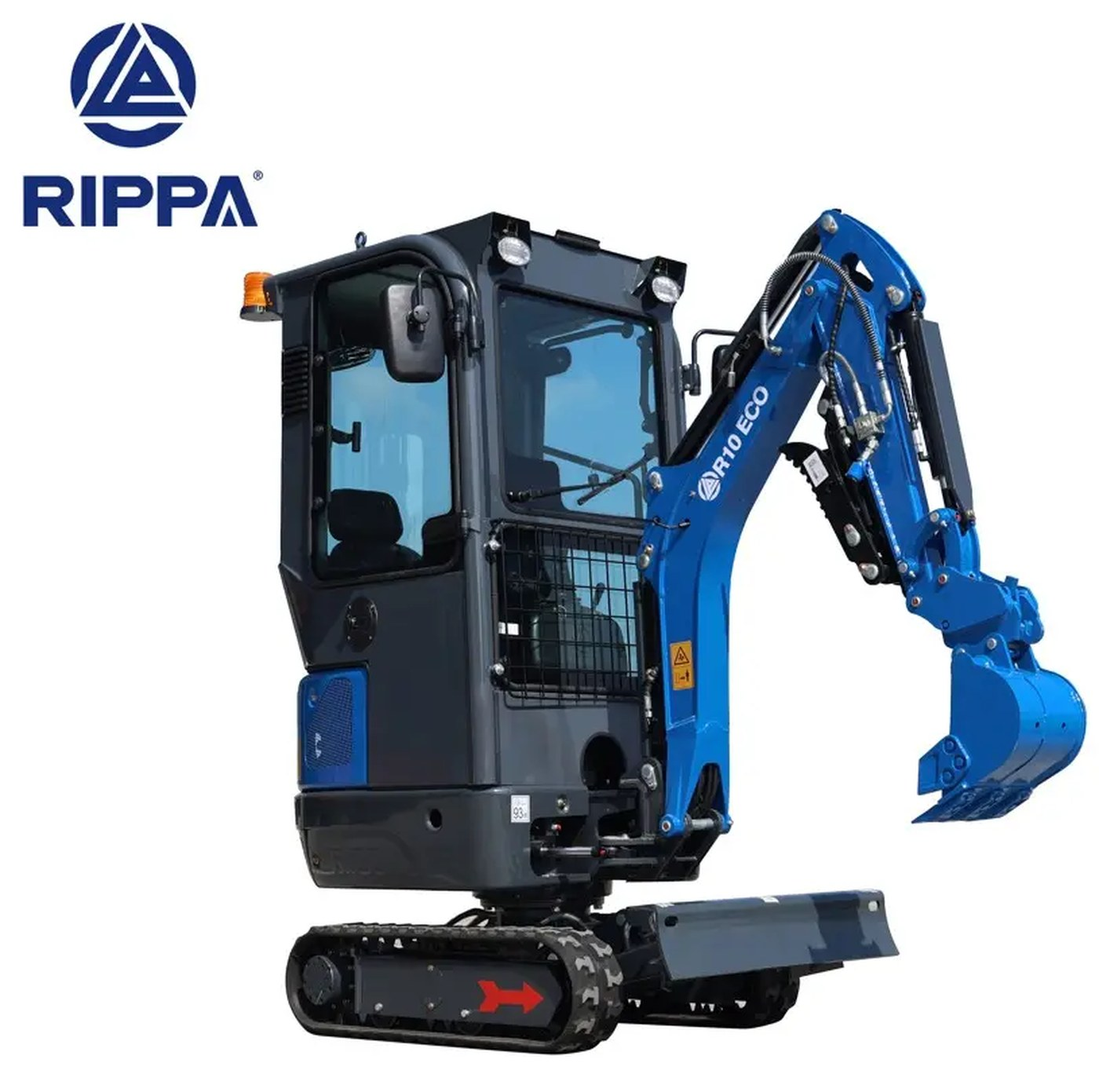
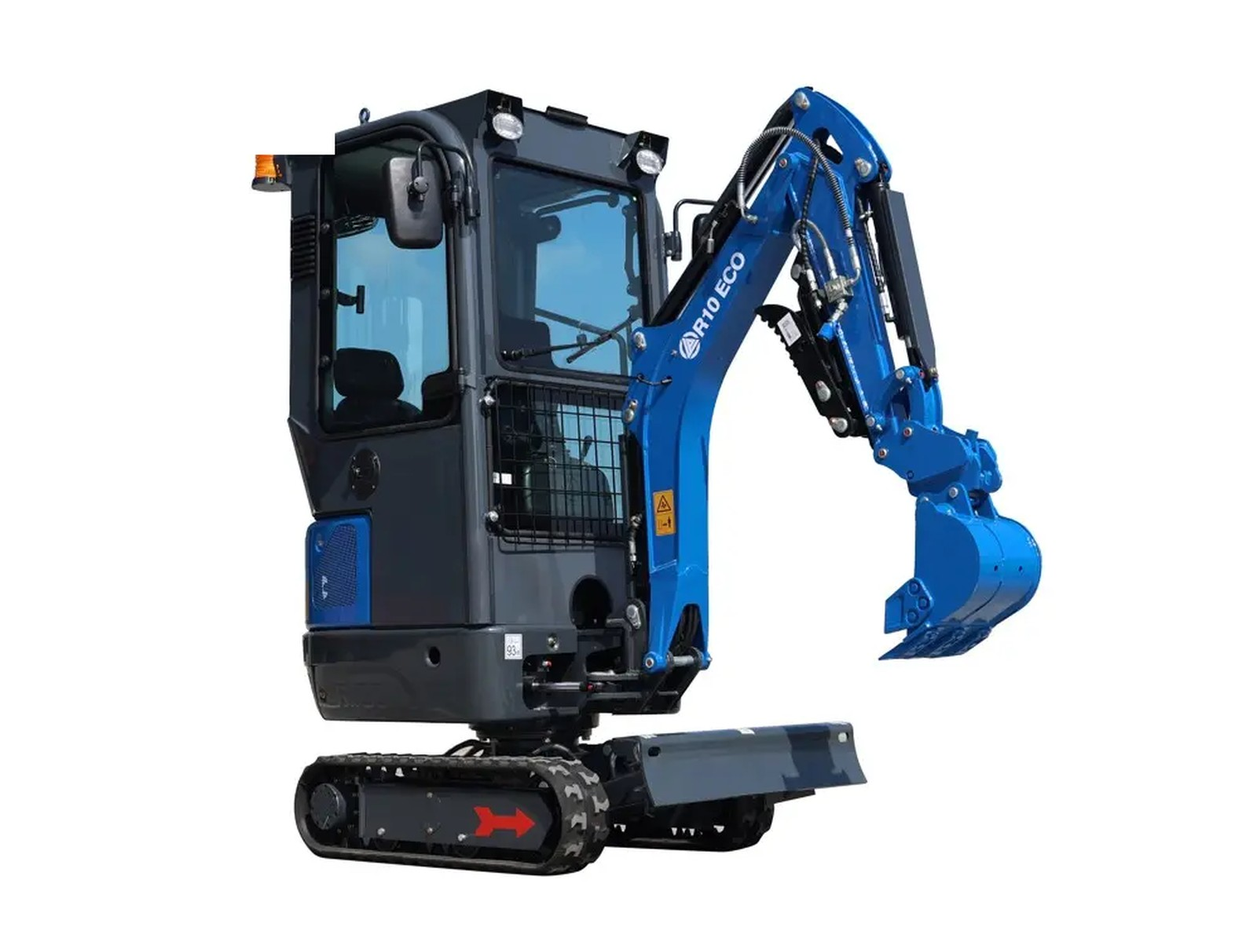
Design pass: chamfered rugged chips/buttons, accent bars, new hero/CTA backgrounds; R10, R13, R15 render galleries and feature images; RD06 render recrop; placeholder-image filter for attachment imports; header overflow fix; phone placeholder 111-111-1111

diff --git a/src/data/lineup.ts b/src/data/lineup.ts
@@ -91,13 +91,13 @@ export const lineup: LineupModel[] = [
       { eyebrow: "Ultra compact", title: "Retractable tracks 900 – 1,200 mm", text: "A single lever narrows the gauge to 900 mm to pass a gate, then widens to 1,200 mm for digging stability.", image: "r10-eco-feat-tracks" },
       { eyebrow: "Wide range", title: "Boom swing 74° left / 47° right", text: "Dig along fences, foundations and walls without repositioning.", image: "r10-eco-feat-swing" },
       { eyebrow: "Design detail", title: "Reinforced quick-fold dozer blade", text: "High-strength steel, ribbed, greased pivots and a pull-pin fold that matches blade to track width.", image: "r10-eco-feat-blade" },
-      { eyebrow: "Work ready", title: "Hydraulic thumb, quick coupler and four-way lines", text: "Standard hydraulic thumb for rocks, logs and irregular loads, tool-free bucket changes, and four high-pressure auxiliary lines for breakers and augers.", image: "r10-eco-feat-action" },
-      { eyebrow: "Safety", title: "Four-post canopy with safety net and lights", text: "Front mesh guard, plastic roof, front spotlight and warning beacon. Rearview mirror under the roof.", image: "r10-eco-feat-canopy" },
+      { eyebrow: "Work ready", title: "Hydraulic thumb, quick coupler and four-way lines", text: "Standard hydraulic thumb for rocks, logs and irregular loads, tool-free bucket changes, and four high-pressure auxiliary lines for breakers and augers.", image: "r10-eco-feat-thumb" },
+      { eyebrow: "Safety", title: "Four-post canopy with safety net and lights", text: "Front mesh guard, plastic roof, front spotlight and warning beacon. Rearview mirror under the roof.", image: "r10-eco-feat-canopy-net" },
     ],
     standardEquipment: ["Hydraulic thumb", "Mechanical quick coupler", "Four-way auxiliary hydraulic lines", "Retractable undercarriage 900–1,200 mm", "Quick-fold dozer blade", "Four-post canopy with front safety net and plastic roof (canopy version)", "Foot pedal for boom swing", "LED spotlight and warning light", "Rearview mirror", "Lifting holes", "Dashboard with hour meter", "Counterweight"],
     applications: ["Backyard projects", "Fence installation", "Garden beds and drainage", "Light trenching", "Rental fleets"],
     faqs: excFaqs("R10 ECO", "912 mm (35.9 in)", "1,142 kg (2,518 lb)", "It passes a standard 36-inch gate with the tracks retracted."),
-    images: [{ key: "r10-eco-render", alt: "RIPPA R10 ECO mini excavator" }, { key: "r10-eco-cab", alt: "RIPPA R10 ECO enclosed cab, Kubota diesel" }, { key: "r10-eco-canopy-gas", alt: "RIPPA R10 ECO open canopy, Briggs & Stratton gas engine" }, { key: "r10-eco-cab-gas", alt: "RIPPA R10 ECO enclosed cab, gas engine" }, { key: "r10-eco-cover", alt: "RIPPA R10 ECO on site" }, { key: "r10-eco-action", alt: "RIPPA R10 ECO digging" }, { key: "r10-eco-feat-jobsite", alt: "RIPPA R10 ECO in a backyard" }],
+    images: [{ key: "r10-eco-render", alt: "RIPPA R10 ECO mini excavator with open canopy" }, { key: "r10-eco-cab", alt: "RIPPA R10 ECO with enclosed cab" }, { key: "r10-eco-side", alt: "RIPPA R10 ECO open canopy, right side view" }, { key: "r10-eco-front-right", alt: "RIPPA R10 ECO from the front right" }, { key: "r10-eco-front", alt: "RIPPA R10 ECO front view with dozer blade" }, { key: "r10-eco-rear", alt: "RIPPA R10 ECO rear view" }, { key: "r10-eco-coupler", alt: "RIPPA R10 ECO quick coupler and bucket" }],
     brochure: "RIPPA-R10-ECO-Spec-Sheet.pdf", targetUsers: "Homeowners for backyard projects", noiseLevel: "Ultra-quiet", indoorUse: true,
   },
   // ============================================================ R13 PRO
@@ -119,14 +119,15 @@ export const lineup: LineupModel[] = [
     features: [
       { eyebrow: "Compact design", title: "849 mm wide with 750 – 990 mm retractable tracks", text: "Passes backyard alleys and gates, then widens for stability. Control-lever operated.", image: "r13-pro-feat-tracks" },
       { eyebrow: "Design detail", title: "Retractable dozer blade", text: "Blade width follows the track gauge by moving a pin. Levelling yards and small sites without a second machine.", image: "r13-pro-feat-blade" },
-      { eyebrow: "Work ready", title: "Hydraulic thumb & quick coupler standard", text: "Grab rocks, roots and logs, and change buckets in seconds.", image: "r13-pro-feat-thumb" },
-      { eyebrow: "Safety", title: "Front ROPS bar and safety net canopy", text: "Rollover protective structure that folds for transport, front mesh guard, roof spotlight, warning light and rearview mirror.", image: "r13-pro-feat-rops" },
+      { eyebrow: "Work ready", title: "Hydraulic thumb & quick coupler standard", text: "Grab rocks, roots and logs, and change buckets in seconds.", image: "r13-pro-feat-thumb-render" },
+      { eyebrow: "Safety", title: "Front ROPS bar and safety net canopy", text: "Rollover protective structure that folds for transport, front mesh guard, roof spotlight, warning light and rearview mirror.", image: "r13-pro-feat-canopy-render" },
       { eyebrow: "Serviceability", title: "Full-opening bonnet and lifting points", text: "Rear-opening hood for daily checks, air filter, nickel-plated grease fittings with welded guards and two lower-frame lifting points.", image: "r13-pro-feat-hood" },
+      { eyebrow: "Operator comfort", title: "Hydraulic pilot joystick controls", text: "Pilot joysticks replace mechanical levers, so fine grading and long days take less effort. Function switches sit on the joystick heads within thumb reach.", image: "r13-pro-feat-controls" },
     ],
     standardEquipment: ["Hydraulic thumb", "Quick coupler", "Four-way auxiliary hydraulic lines", "Retractable undercarriage 750–990 mm", "Retractable dozer blade", "Front ROPS bar (foldable)", "Canopy with front safety net", "Roof spotlight, warning light and rearview mirror", "Sound-insulated seat cover", "Nickel-plated grease fittings", "Lower-frame lifting points", "Full-opening bonnet"],
     applications: ["Landscaping", "Trenching", "Utility work", "Backyard access jobs", "Maintenance contractors"],
     faqs: excFaqs("R13 PRO", "849 mm (33.4 in)", "1,323 kg (2,917 lb)", "It passes a 36-inch gate with room to spare.").filter((f) => !f.question.startsWith("Open canopy")).concat([{ question: "Is there an enclosed cab version?", answer: "No. The R13 PRO is canopy-only. For an enclosed cab in this size class, look at the R15 ECO or R18 PRO." }]),
-    images: [{ key: "r13-pro-render", alt: "RIPPA R13 PRO mini excavator" }, { key: "r13-pro-canopy", alt: "RIPPA R13 PRO open canopy with Kubota D722" }, { key: "r13-pro-cover", alt: "RIPPA R13 PRO on site" }, { key: "r13-pro-action", alt: "RIPPA R13 PRO digging" }, { key: "r13-pro-feat-jobsite", alt: "RIPPA R13 PRO trenching beside a house" }],
+    images: [{ key: "r13-pro-render", alt: "RIPPA R13 PRO mini excavator with hydraulic thumb and open canopy" }, { key: "r13-pro-side", alt: "RIPPA R13 PRO side profile with boom extended" }, { key: "r13-pro-front-right", alt: "RIPPA R13 PRO from the front right" }, { key: "r13-pro-rear-left", alt: "RIPPA R13 PRO rear three-quarter view" }, { key: "r13-pro-front", alt: "RIPPA R13 PRO front view with dozer blade" }, { key: "r13-pro-rear", alt: "RIPPA R13 PRO rear view" }, { key: "r13-pro-controls", alt: "RIPPA R13 PRO pilot joystick controls" }],
     brochure: "RIPPA-R13-PRO-Spec-Sheet.pdf", targetUsers: "Budget-conscious buyers needing stronger lift in a narrow machine", noiseLevel: "Ultra-quiet", indoorUse: false,
   },
   // ============================================================ R15 ECO
@@ -148,14 +149,14 @@ export const lineup: LineupModel[] = [
     features: [
       { eyebrow: "Ultra compact", title: "Retractable tracks 900 – 1,200 mm", text: "Single-lever hydraulic gauge adjustment. Narrow for doorways, wide for digging.", image: "r15-eco-feat-tracks" },
       { eyebrow: "Design detail", title: "Reinforced quick-fold dozer blade", text: "High-strength ribbed blade with greased joints; fold pin matches it to the track width.", image: "r15-eco-feat-blade" },
-      { eyebrow: "Control & comfort", title: "Dual pilot foot valves and high/low travel", text: "Two dual and two single pilot foot valves for smoother swing and auxiliary control, plus switchable travel speeds.", image: "r15-eco-feat-action" },
-      { eyebrow: "Work ready", title: "Four-way crushing pipeline", text: "Four high-pressure auxiliary lines run breakers, augers and thumbs.", image: "r15-eco-feat-swing" },
-      { eyebrow: "Safety", title: "Enhanced safety canopy", text: "Four-post canopy with front safety net, front headlight, warning light and sound-insulated seat cover. Or choose the enclosed cab.", image: "r15-eco-feat-canopy" },
+      { eyebrow: "Control & comfort", title: "Dual pilot foot valves and high/low travel", text: "Two dual and two single pilot foot valves for smoother swing and auxiliary control, plus switchable travel speeds.", image: "r15-eco-feat-controls" },
+      { eyebrow: "Work ready", title: "Four-way crushing pipeline", text: "Four high-pressure auxiliary lines run breakers, augers and thumbs.", image: "r15-eco-feat-aux-lines" },
+      { eyebrow: "Safety", title: "Enhanced safety canopy", text: "Four-post canopy with front safety net, front headlight, warning light and sound-insulated seat cover. Or choose the enclosed cab.", image: "r15-eco-feat-canopy-lights" },
     ],
     standardEquipment: ["Four-way auxiliary hydraulic lines", "Quick coupler", "Retractable undercarriage 900–1,200 mm", "Quick-fold dozer blade", "Dual pilot foot valves", "High / low travel speed", "Four-post canopy with front safety net (canopy version)", "Front headlight and warning light", "Sound-insulated seat cover", "Lifting holes"],
     applications: ["Driveway repair", "Drainage trenching", "Stump removal", "Tree planting", "Fence installation", "Small foundations", "Farm work"],
     faqs: excFaqs("R15 ECO", "983 mm (38.7 in)", "1,532 kg (3,377 lb)", "It passes most double gates; retract the tracks for a standard 36-inch gate (900 mm track gauge)."),
-    images: [{ key: "r15-eco-render", alt: "RIPPA R15 ECO mini excavator" }, { key: "r15-eco-cab", alt: "RIPPA R15 ECO enclosed cab" }, { key: "r15-eco-canopy", alt: "RIPPA R15 ECO open canopy" }, { key: "r15-eco-cover", alt: "RIPPA R15 ECO on site" }, { key: "r15-eco-action", alt: "RIPPA R15 ECO with breaker" }, { key: "r15-eco-feat-jobsite", alt: "RIPPA R15 ECO digging beside a house" }],
+    images: [{ key: "r15-eco-render", alt: "RIPPA R15 ECO mini excavator with open canopy" }, { key: "r15-eco-cab", alt: "RIPPA R15 ECO with enclosed cab" }, { key: "r15-eco-side", alt: "RIPPA R15 ECO side profile with boom extended" }, { key: "r15-eco-front-left", alt: "RIPPA R15 ECO from the front left with dozer blade" }, { key: "r15-eco-rear-left", alt: "RIPPA R15 ECO rear three-quarter view" }, { key: "r15-eco-front", alt: "RIPPA R15 ECO front view" }, { key: "r15-eco-rear", alt: "RIPPA R15 ECO rear view" }],
     brochure: "RIPPA-R15-ECO-Spec-Sheet.pdf", targetUsers: "Homeowners and small farm owners", noiseLevel: "Ultra-quiet", indoorUse: false,
   },
   // ============================================================ R18 PRO
@@ -318,7 +319,7 @@ export const lineup: LineupModel[] = [
       { question: "Is the R230 stocked?", answer: "The R230 is ordered to spec. Talk to us about lead time, configuration and float delivery." },
       { question: "Is it in the Excavator Builder?", answer: "No. Full-size machines are quoted directly with attachments and options matched to the job." },
     ],
-    images: [{ key: "r230-pro-render", alt: "RIPPA R230 excavator" }, { key: "r230-pro-site", alt: "RIPPA R230 PRO on a construction site" }, { key: "r230-pro-cover", alt: "RIPPA R230 excavator on rock" }, { key: "r230-pro-feat-jobsite", alt: "RIPPA R230 side view" }],
+    images: [{ key: "r230-pro-render", alt: "RIPPA R230 excavator" }, { key: "r230-pro-site", alt: "RIPPA R230 PRO on a construction site" }, { key: "r230-pro-feat-jobsite", alt: "RIPPA R230 side view" }],
     brochure: "RIPPA-R230-PRO-Spec-Sheet.pdf", targetUsers: "Earthmoving and infrastructure contractors", noiseLevel: "Standard working level", indoorUse: false,
   },
 ];

diff --git a/src/components/home/Hero.tsx b/src/components/home/Hero.tsx
@@ -2,36 +2,32 @@ import { ShieldCheck, Users, MapPin } from "lucide-react";
 import { Button } from "@/components/ui/Button";
 import { Container } from "@/components/ui/Container";
 import { IconFeature } from "@/components/ui/IconFeature";
-import { HeroVisual } from "./HeroVisual";
 
 export function Hero() {
   return (
-    <section className="relative overflow-hidden border-b border-line bg-light">
-      <div aria-hidden className="absolute inset-0 bg-[url('/images/bg/hero-site.jpg')] bg-cover bg-[position:70%_60%]" />
-      <div aria-hidden className="absolute inset-0 bg-gradient-to-r from-white via-white/95 to-white/40 lg:via-white/90 lg:to-white/20" />
-      <div aria-hidden className="absolute inset-x-0 bottom-0 h-24 bg-gradient-to-t from-white to-transparent" />
-      <Container className="relative grid items-center gap-10 py-12 lg:grid-cols-[45fr_55fr] lg:gap-8 lg:py-0">
-        <div className="lg:py-20">
-          <p className="mb-4 text-[12px] font-semibold uppercase tracking-[0.3em] text-navy">Official RIPPA Dealer</p>
-          <h1 className="display text-charcoal">
+    <section className="relative overflow-hidden bg-[#070d1a] text-white">
+      <div aria-hidden className="absolute inset-0 bg-[url('/images/bg/hero-shards.jpg')] bg-cover bg-[position:75%_50%]" />
+      <div aria-hidden className="absolute inset-0 bg-gradient-to-r from-[#070d1a] via-[#070d1a]/85 to-transparent" />
+      <div aria-hidden className="absolute inset-x-0 bottom-0 h-1.5 bg-gradient-to-r from-electric via-navy to-transparent" />
+      <Container className="relative py-14 lg:min-h-[600px] lg:py-24">
+        <div className="max-w-2xl">
+          <p className="mb-4 flex items-center gap-2 text-[11px] font-bold uppercase tracking-[0.22em] text-electric sm:text-[12px] sm:tracking-[0.3em]"><span className="h-px w-8 shrink-0 bg-electric" aria-hidden /><span>Official RIPPA Dealer · Thorold, Ontario</span></p>
+          <h1 className="display text-white">
             Compact Equipment<br />
-            <span className="text-navy">Built for Real Work</span>
+            <span className="text-electric">Built for Real Work</span>
           </h1>
-          <p className="mt-5 max-w-xl text-[17px] leading-relaxed text-charcoal/85">
-            Niagara Equipment Supply is your trusted RIPPA dealer for Excavators, Skid Steers, Loaders, Backhoe Loaders and Track Dumpers across Ontario.
+          <p className="mt-5 max-w-xl text-[17px] leading-relaxed text-white/80">
+            RIPPA mini excavators, skid steers, loaders and track dumpers, backed by the RIPPA Service Centre, genuine parts across Canada and delivery anywhere in Ontario.
           </p>
           <div className="mt-7 flex flex-wrap gap-3">
-            <Button href="/inventory" size="lg" arrow>Shop Inventory</Button>
-            <Button href="/attachments" size="lg" variant="secondary" arrow>Browse Attachments</Button>
+            <Button href="/inventory" size="lg" arrow className="bg-electric hover:bg-white hover:text-navy">Shop Equipment</Button>
+            <Button href="/builder/excavator" size="lg" arrow className="border-2 border-white/70 bg-transparent text-white hover:border-white hover:bg-white hover:text-navy">Build Your Machine</Button>
           </div>
           <ul className="mt-9 grid grid-cols-1 gap-5 sm:grid-cols-3 sm:gap-4">
-            <li><IconFeature icon={ShieldCheck} title="Quality Equipment" text="Built to perform" compact /></li>
-            <li><IconFeature icon={Users} title="Expert Support" text="Before & after you buy" compact /></li>
-            <li><IconFeature icon={MapPin} title="Ontario Wide" text="Delivery available" compact /></li>
+            <li><IconFeature icon={ShieldCheck} title="RIPPA Service Centre" text="Warranty handled for you" compact dark /></li>
+            <li><IconFeature icon={Users} title="Expert Support" text="Before & after you buy" compact dark /></li>
+            <li><IconFeature icon={MapPin} title="Ontario Wide" text="Delivery available" compact dark /></li>
           </ul>
-        </div>
-        <div className="relative lg:min-h-[520px]">
-          <HeroVisual />
         </div>
       </Container>
     </section>

diff --git a/src/app/(site)/attachments/[category]/page.tsx b/src/app/(site)/attachments/[category]/page.tsx
@@ -9,6 +9,7 @@ import { Button } from "@/components/ui/Button";
 import { getSiteContent, getAttachmentCategory, getAttachments } from "@/lib/catalogue";
 import { slugify } from "@/lib/format";
 import Link from "next/link";
+import { RuggedChip } from "@/components/ui/RuggedChip";
 import { Check } from "lucide-react";
 import { plateLabels } from "@/lib/plates";
 import { groupAttachments } from "@/lib/attachment-groups";
@@ -52,13 +53,13 @@ export default async function AttachmentCategoryPage({ params, searchParams }: {
           <div className="mb-6 rounded-card border border-line bg-light/60 p-4">
             <p className="mb-2 text-[11px] font-bold uppercase tracking-[0.18em] text-grey">Show attachments that fit</p>
             <ul className="flex flex-wrap gap-2">
-              <li><Link href={`/attachments/${cat.slug}${qs(undefined, plate)}`} className={`inline-flex h-10 items-center rounded-full border px-4 text-sm font-semibold ${!machine ? "border-navy bg-navy text-white" : "border-line bg-white text-navy hover:border-electric"}`}>All models</Link></li>
-              {modelsHere.map((m) => <li key={m.id}><Link href={`/attachments/${cat.slug}${qs(m.slug, plate)}`} className={`inline-flex h-10 items-center rounded-full border px-4 text-sm font-semibold ${machine?.id === m.id ? "border-navy bg-navy text-white" : "border-line bg-white text-navy hover:border-electric"}`}>{m.modelName}</Link></li>)}
+              <li><RuggedChip href={`/attachments/${cat.slug}${qs(undefined, plate)}`} active={!machine}>All models</RuggedChip></li>
+              {modelsHere.map((m) => <li key={m.id}><RuggedChip href={`/attachments/${cat.slug}${qs(m.slug, plate)}`} active={machine?.id === m.id}>{m.modelName}</RuggedChip></li>)}
             </ul>
             {platesHere.length > 1 && (
               <ul className="mt-3 flex flex-wrap gap-2" aria-label="Plate type">
-                <li><Link href={`/attachments/${cat.slug}${qs(machine?.slug)}`} className={`inline-flex h-9 items-center rounded-full border px-3 text-[13px] font-semibold ${!plate ? "border-charcoal bg-charcoal text-white" : "border-line bg-white text-charcoal hover:border-electric"}`}>Any plate</Link></li>
-                {platesHere.map((p) => <li key={p}><Link href={`/attachments/${cat.slug}${qs(machine?.slug, p)}`} className={`inline-flex h-9 items-center rounded-full border px-3 text-[13px] font-semibold ${plate === p ? "border-charcoal bg-charcoal text-white" : "border-line bg-white text-charcoal hover:border-electric"}`}>{plateLabels[p] ?? p}</Link></li>)}
+                <li><RuggedChip href={`/attachments/${cat.slug}${qs(machine?.slug)}`} size="sm" active={!plate}>Any plate</RuggedChip></li>
+                {platesHere.map((p) => <li key={p}><RuggedChip href={`/attachments/${cat.slug}${qs(machine?.slug, p)}`} size="sm" active={plate === p}>{plateLabels[p] ?? p}</RuggedChip></li>)}
               </ul>
             )}
             <p className="mt-3 text-[13px] text-grey">{machine ? `${items.length} attachments listed by RIPPA for the ${machine.modelName}.` : `${items.length} attachments.`} Not sure which plate you have, or want to run attachments from another machine? We convert plates and fit adapters. <Link href="/contact" className="font-semibold text-navy">Ask us</Link>.</p>
@@ -66,7 +67,7 @@ export default async function AttachmentCategoryPage({ params, searchParams }: {
           {cat.intro && !machine && !plate && <p className="mb-6 max-w-3xl text-[16px] leading-relaxed text-charcoal/85">{cat.intro}</p>}
           {types.length > 1 && (
             <ul className="mb-6 flex flex-wrap gap-2" aria-label="Attachment types">
-              {types.map((t) => <li key={t}><a href={`#${slugify(t)}`} className="inline-flex h-10 items-center rounded-full border border-line px-4 text-sm font-semibold text-navy hover:border-electric hover:text-electric">{t}</a></li>)}
+              {groups.map(([t, group]) => <li key={t}><RuggedChip href={`#${slugify(t)}`} size="sm" count={group.length}>{t}</RuggedChip></li>)}
             </ul>
           )}
           {groups.map(([t, group]) => (

diff --git a/src/scripts/delete-media.ts b/src/scripts/delete-media.ts
@@ -1,0 +1,33 @@
+/**
+ * Delete specific media records (and their files) by filename, but only when nothing references them.
+ * Use before re-seeding a replaced image so the seed uploads the new file under the same name.
+ *   FILES="r10-eco-render.jpg r10-eco-cover.jpg" npx payload run src/scripts/delete-media.ts
+ *   FORCE=1 … deletes even if referenced (the reference is re-pointed by the following seed).
+ */
+import { getPayload } from "payload";
+import config from "@payload-config";
+
+const payload = await getPayload({ config });
+const files = (process.env.FILES ?? "").split(/\s+/).filter(Boolean);
+if (files.length === 0) { payload.logger.error("FILES env var is empty"); process.exit(1); }
+
+const used = new Set<number>();
+const add = (v: unknown) => { const id = typeof v === "object" && v ? (v as { id?: number }).id : v; if (typeof id === "number") used.add(id); };
+const all = async <T,>(collection: string) => (await payload.find({ collection: collection as never, limit: 0, pagination: false, depth: 0, draft: true })).docs as T[];
+for (const a of await all<{ images?: { image: unknown }[]; variants?: { images?: { image: unknown }[] }[] }>("attachments")) { a.images?.forEach((i) => add(i.image)); a.variants?.forEach((v) => v.images?.forEach((i) => add(i.image))); }
+for (const m of await all<{ images?: { image: unknown }[]; features?: { image?: unknown }[] }>("machines")) { m.images?.forEach((i) => add(i.image)); m.features?.forEach((f) => add(f.image)); }
+for (const p of await all<{ heroImage?: unknown }>("posts")) add(p.heroImage);
+for (const l of await all<{ image?: unknown }>("lubricants")) add(l.image);
+for (const c of await all<{ image?: unknown }>("categories")) add(c.image);
+for (const p of await all<{ image?: unknown }>("parts")) add(p.image);
+
+for (const filename of files) {
+  const found = await payload.find({ collection: "media", where: { filename: { equals: filename } }, limit: 5, depth: 0 });
+  if (found.docs.length === 0) { payload.logger.info(`not found: ${filename}`); continue; }
+  for (const m of found.docs) {
+    if (used.has(m.id) && !process.env.FORCE) { payload.logger.info(`kept ${filename} (#${m.id}) — still referenced; set FORCE=1 to replace`); continue; }
+    await payload.delete({ collection: "media", id: m.id });
+    payload.logger.info(`deleted ${filename} (#${m.id})${used.has(m.id) ? " [was referenced]" : ""}`);
+  }
+}
+process.exit(0);

diff --git a/src/components/ui/RuggedChip.tsx b/src/components/ui/RuggedChip.tsx
@@ -1,0 +1,24 @@
+import Link from "next/link";
+import type { ComponentPropsWithoutRef, ReactNode } from "react";
+
+/**
+ * Compatibility / filter chip with chamfered corners and an uppercase label: the "rugged" model button used for
+ * machine filters, "fits these machines" lists and jump bars. Renders a Link when href is given, else a button.
+ */
+type Tone = "navy" | "outline" | "dark";
+interface Base { active?: boolean; tone?: Tone; size?: "sm" | "md"; className?: string; children: ReactNode; count?: number | string }
+type LinkP = Base & Omit<ComponentPropsWithoutRef<"a">, "className" | "children" | "href"> & { href: string };
+type BtnP = Base & Omit<ComponentPropsWithoutRef<"button">, "className" | "children"> & { href?: undefined };
+
+export function RuggedChip(props: LinkP | BtnP) {
+  const { active = false, tone = "outline", size = "md", className = "", children, count, ...rest } = props;
+  const h = size === "sm" ? "h-8 px-3 text-[11px]" : "h-10 px-4 text-[12px]";
+  const look = active
+    ? "bg-navy text-white border-navy"
+    : tone === "dark" ? "bg-charcoal text-white border-charcoal hover:bg-navy hover:border-navy" : "bg-white text-charcoal border-charcoal/80 hover:border-navy hover:text-navy";
+  const cls = `chamfer inline-flex items-center gap-1.5 border-2 font-bold uppercase tracking-[0.12em] leading-none transition-colors ${h} ${look} ${className}`;
+  const inner = <>{children}{count !== undefined && <span className={`ml-0.5 text-[10px] font-semibold ${active ? "text-white/70" : "text-grey"}`}>{count}</span>}</>;
+  if ("href" in rest && rest.href) { const { href, ...a } = rest as LinkP; return href.startsWith("#") ? <a href={href} className={cls} {...a}>{inner}</a> : <Link href={href} className={cls} {...a}>{inner}</Link>; }
+  const b = rest as BtnP;
+  return <button type="button" className={cls} aria-pressed={active} {...b}>{inner}</button>;
+}

diff --git a/src/components/builder/AttachmentSelector.tsx b/src/components/builder/AttachmentSelector.tsx
@@ -1,3 +1,4 @@
+import { RuggedChip } from "@/components/ui/RuggedChip";
 "use client";
 import { useMemo, useState } from "react";
 import { Check, Plus, Minus } from "lucide-react";
@@ -34,8 +35,8 @@ export function AttachmentSelector({ machine, attachments, selections, onAdd, on
       ) : (
         <>
           <div className="no-scrollbar -mx-1 mb-4 flex gap-1.5 overflow-x-auto px-1 pb-1" role="tablist" aria-label="Attachment types">
-            <button type="button" role="tab" aria-selected={type === "all"} onClick={() => setType("all")} className={`shrink-0 rounded-full border px-3 py-1.5 text-[13px] font-semibold ${type === "all" ? "border-navy bg-navy text-white" : "border-line bg-white text-charcoal hover:border-electric"}`}>All <span className={type === "all" ? "text-white/70" : "text-grey"}>{attachments.length}</span></button>
-            {groups.map(([t, items]) => <button key={t} type="button" role="tab" aria-selected={type === t} onClick={() => setType(t)} className={`shrink-0 rounded-full border px-3 py-1.5 text-[13px] font-semibold ${type === t ? "border-navy bg-navy text-white" : "border-line bg-white text-charcoal hover:border-electric"}`}>{t} <span className={type === t ? "text-white/70" : "text-grey"}>{items.length}</span></button>)}
+            <RuggedChip role="tab" aria-selected={type === "all"} active={type === "all"} onClick={() => setType("all")} size="sm" count={attachments.length} className="shrink-0">All</RuggedChip>
+            {groups.map(([t, items]) => <RuggedChip key={t} role="tab" aria-selected={type === t} active={type === t} onClick={() => setType(t)} size="sm" count={items.length} className="shrink-0">{t}</RuggedChip>)}
           </div>
           <div className="space-y-6">
             {visible.map(([t, items]) => (

diff --git a/src/components/ui/IconFeature.tsx b/src/components/ui/IconFeature.tsx
@@ -1,14 +1,14 @@
 import type { LucideIcon } from "lucide-react";
 
-export function IconFeature({ icon: Icon, title, text, compact }: { icon: LucideIcon; title: string; text: string; compact?: boolean }) {
+export function IconFeature({ icon: Icon, title, text, compact, dark }: { icon: LucideIcon; title: string; text: string; compact?: boolean; dark?: boolean }) {
   return (
     <div className="flex items-center gap-3">
-      <span className={`flex shrink-0 items-center justify-center rounded-md text-navy ${compact ? "size-9" : "size-11 bg-tint"}`}>
-        <Icon className={compact ? "size-7" : "size-6"} strokeWidth={1.75} aria-hidden />
+      <span className={`chamfer flex shrink-0 items-center justify-center ${dark ? "bg-white/10 text-electric" : "text-navy"} ${compact ? "size-9" : "size-11 bg-tint"}`}>
+        <Icon className={compact ? "size-6" : "size-6"} strokeWidth={1.75} aria-hidden />
       </span>
       <div className="leading-tight">
-        <p className="text-[12px] font-bold uppercase tracking-wide text-charcoal">{title}</p>
-        <p className="text-[11px] uppercase tracking-wide text-grey">{text}</p>
+        <p className={`text-[12px] font-bold uppercase tracking-wide ${dark ? "text-white" : "text-charcoal"}`}>{title}</p>
+        <p className={`text-[11px] uppercase tracking-wide ${dark ? "text-white/60" : "text-grey"}`}>{text}</p>
       </div>
     </div>
   );

diff --git a/src/components/equipment/AttachmentPicker.tsx b/src/components/equipment/AttachmentPicker.tsx
@@ -1,6 +1,7 @@
 "use client";
 import { useMemo, useState } from "react";
 import Link from "next/link";
+import { RuggedChip } from "@/components/ui/RuggedChip";
 import { ChevronDown } from "lucide-react";
 import type { Attachment, Machine } from "@/lib/types";
 import { EquipmentImage } from "@/components/ui/EquipmentImage";
@@ -23,7 +24,7 @@ export function AttachmentPicker({ attachments, machine }: { attachments: Attach
   return (
     <div>
       <nav aria-label="Attachment types" className="mb-4 flex flex-wrap gap-1.5">
-        {groups.map(([t, items]) => <button key={t} type="button" onClick={() => { setOpen((s) => new Set(s).add(t)); document.getElementById(`att-${slug(t)}`)?.scrollIntoView({ behavior: "smooth", block: "start" }); }} className="rounded-full border border-line bg-white px-3 py-1 text-[12px] font-semibold text-charcoal hover:border-electric hover:text-navy">{t} <span className="text-grey">{items.length}</span></button>)}
+        {groups.map(([t, items]) => <RuggedChip key={t} size="sm" count={items.length} onClick={() => { setOpen((s) => new Set(s).add(t)); document.getElementById(`att-${slug(t)}`)?.scrollIntoView({ behavior: "smooth", block: "start" }); }}>{t}</RuggedChip>)}
       </nav>
       <div className="divide-y divide-line rounded-card border border-line bg-white">
         {groups.map(([type, items]) => {

diff --git a/src/app/(site)/parts/item/[slug]/page.tsx b/src/app/(site)/parts/item/[slug]/page.tsx
@@ -1,5 +1,6 @@
 import type { Metadata } from "next";
 import Link from "next/link";
+import { RuggedChip } from "@/components/ui/RuggedChip";
 import { notFound } from "next/navigation";
 import { Check, Package, Phone } from "lucide-react";
 import { Container } from "@/components/ui/Container";
@@ -54,7 +55,7 @@ export default async function PartPage({ params }: { params: Promise<Params> }) 
               <div className="mt-5 border-t border-line pt-4">
                 <h2 className="text-sm font-bold text-charcoal">Fits these machines</h2>
                 {fits.length ? (
-                  <ul className="mt-2 flex flex-wrap gap-2">{fits.map((m) => <li key={m.id}><Link href={`/parts/${m.slug}`} className="inline-flex h-8 items-center rounded-full bg-tint px-3 text-sm font-semibold text-navy hover:bg-navy hover:text-white">{m.modelName}</Link></li>)}</ul>
+                  <ul className="mt-2 flex flex-wrap gap-2">{fits.map((m) => <li key={m.id}><RuggedChip href={`/parts/${m.slug}`} size="sm">{m.modelName}</RuggedChip></li>)}</ul>
                 ) : <p className="mt-1 text-sm text-grey">Fitment to be confirmed. Send us your model and serial number.</p>}
               </div>
               <ul className="mt-5 space-y-2 text-sm text-charcoal">

diff --git a/src/app/(site)/parts/[model]/page.tsx b/src/app/(site)/parts/[model]/page.tsx
@@ -1,5 +1,6 @@
 import type { Metadata } from "next";
 import Link from "next/link";
+import { RuggedChip } from "@/components/ui/RuggedChip";
 import { notFound } from "next/navigation";
 import { Wrench, Droplets, BookOpen } from "lucide-react";
 import { PageHero } from "@/components/layout/PageHero";
@@ -49,7 +50,7 @@ export default async function ModelPartsPage({ params }: { params: Promise<Param
       >
         <div className="flex flex-wrap gap-3"><Button href={`/service/parts?model=${m.slug}`} size="lg" arrow>Request a Part</Button><Button href={`/inventory/${m.category}/${m.slug}`} size="lg" variant="secondary">{m.modelName} machine page</Button></div>
         <nav aria-label="Systems" className="mt-5 flex flex-wrap gap-1.5">
-          {groups.map(([s, items]) => <a key={s} href={`#parts-${s}`} className="rounded-full border border-line bg-white px-3 py-1 text-[12px] font-semibold text-charcoal hover:border-electric hover:text-navy">{systemLabel(s)} <span className="text-grey">{items.length}</span></a>)}
+          {groups.map(([s, items]) => <RuggedChip key={s} href={`#parts-${s}`} size="sm" count={items.length}>{systemLabel(s)}</RuggedChip>)}
         </nav>
       </PageHero>
 

diff --git a/src/app/(site)/globals.css b/src/app/(site)/globals.css
@@ -92,3 +92,10 @@ h3.display { font-size: clamp(1.25rem, 1vw + 0.8rem, 1.625rem); }
 .prose-nes blockquote { border-left: 4px solid var(--color-navy); padding-left: 1rem; color: var(--color-grey); font-style: italic; }
 .prose-nes code { background: var(--color-light); padding: 0.1rem 0.35rem; border-radius: 4px; font-size: 0.9em; }
 .prose-nes hr { border: 0; border-top: 1px solid var(--color-line); margin: 2rem 0; }
+
+/* Rugged, chamfered corners for compatibility chips and bold panels (8px cut on the top-left and bottom-right). */
+.chamfer { clip-path: polygon(8px 0, 100% 0, 100% calc(100% - 8px), calc(100% - 8px) 100%, 0 100%, 0 8px); border-radius: 0; }
+.chamfer-lg { clip-path: polygon(20px 0, 100% 0, 100% calc(100% - 20px), calc(100% - 20px) 100%, 0 100%, 0 20px); border-radius: 0; }
+/* Angled electric-blue accent under display headings. */
+.accent-bar { position: relative; }
+.accent-bar::after { content: ""; display: block; width: 56px; height: 5px; margin-top: 10px; background: linear-gradient(90deg, var(--color-electric), var(--color-navy)); clip-path: polygon(0 0, 100% 0, calc(100% - 5px) 100%, 5px 100%); }

diff --git a/src/components/equipment/ConfigurationPicker.tsx b/src/components/equipment/ConfigurationPicker.tsx
@@ -47,7 +47,7 @@ export function ConfigurationAxes({ machine, value, onChange, compact = false }:
               const on = picks[a.axis] === o; const ok = available(a.axis, o);
               return (
                 <button key={o} type="button" onClick={() => pick(a.axis, o)} aria-pressed={on} title={ok ? o : `${o}: not offered with the other options selected`}
-                  className={`inline-flex items-center gap-1 rounded-btn border font-semibold transition-colors ${btn} ${on ? "border-navy bg-navy text-white" : ok ? "border-line bg-white text-charcoal hover:border-electric" : "border-dashed border-line bg-light text-grey"}`}>
+                  className={`chamfer inline-flex items-center gap-1 border-2 font-bold uppercase tracking-[0.08em] transition-colors ${btn} ${on ? "border-navy bg-navy text-white" : ok ? "border-charcoal/70 bg-white text-charcoal hover:border-navy hover:text-navy" : "border-dashed border-line bg-light text-grey"}`}>
                   {on && <Check className="size-3.5" aria-hidden />}{short(o)}
                 </button>
               );
